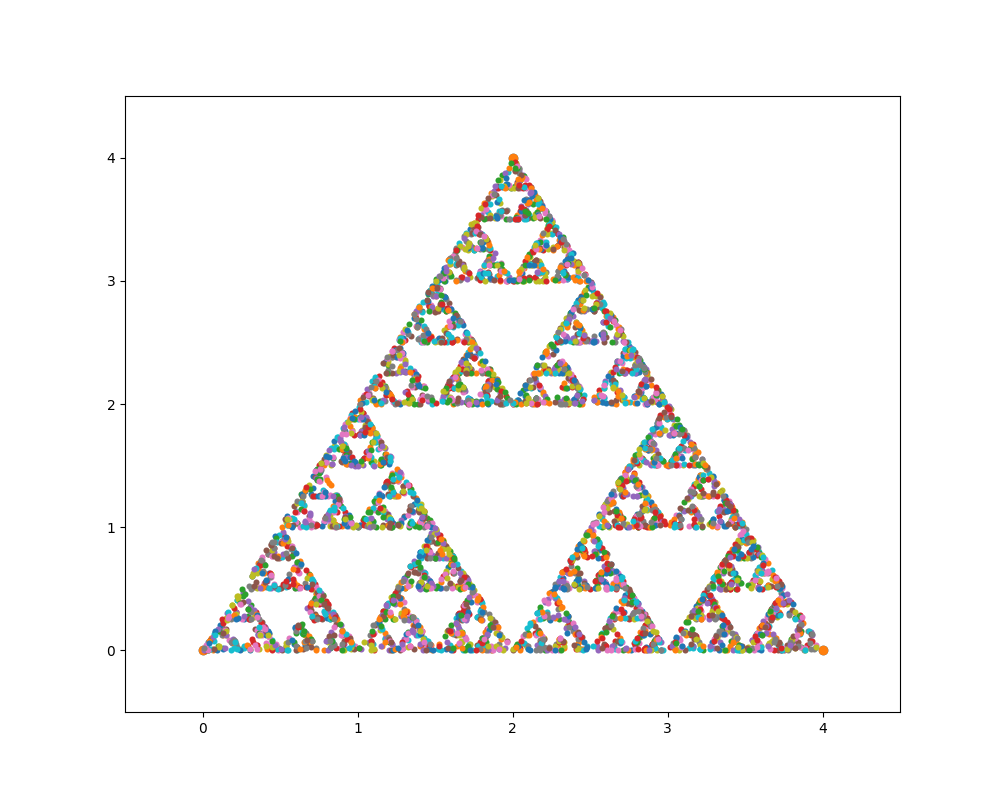
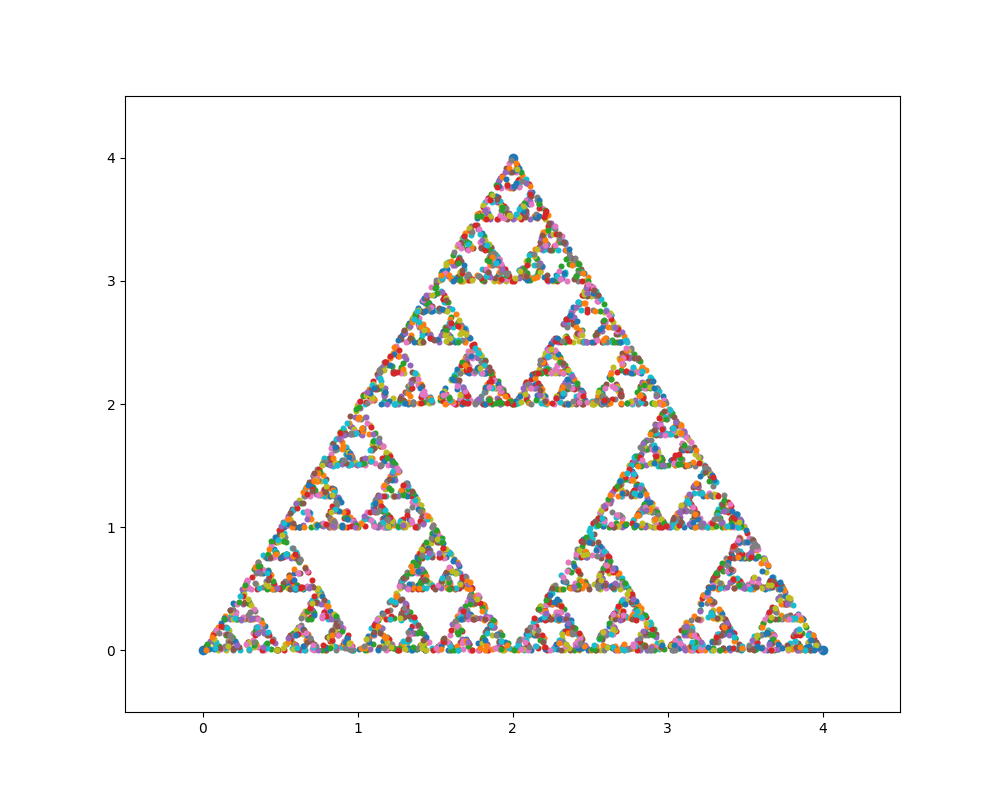
new changes

Changed region(s): [[0.186, 0.1875, 0.837, 0.8438]]

diff --git a/src.py b/src.py
@@ -4,6 +4,6 @@ from gifMkr import gifMkr
 # Utilizing our images to create our gif
 
 #chaosGameBrkr(n = 100, breaks=1)
-#chaosGameBrkr(n = 10000, breaks = 500)
+chaosGameBrkr(n = 10000, breaks = 100)
 
 gifMkr(giftitle="chaosGame10000.gif")
